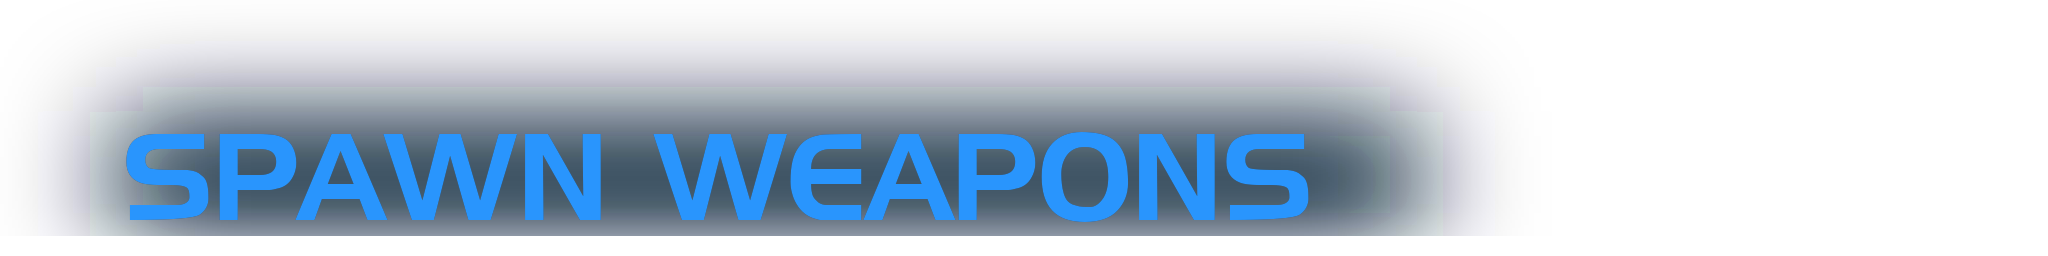
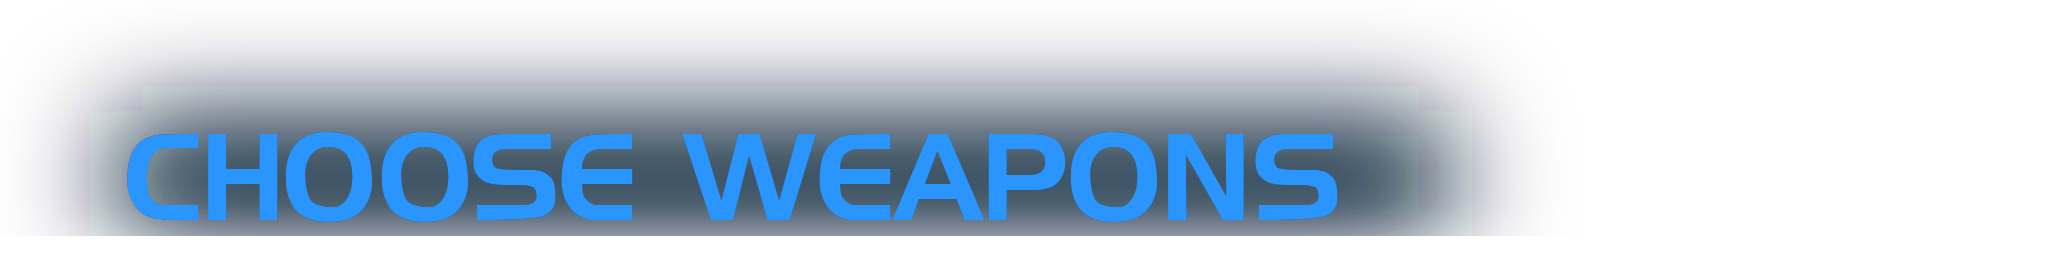
✨ feat(menus): show WEAPON SET only while MAP WEAPONS is on, and title the weapons screen CHOOSE WEAPONS — `gametype_option_help` in `menu_functions.c` hides `op_weapon_set` when `map_weapons_spinner` is NO, and the `weapons_edit` header matches the row that opens it
Claude-Session: https://claude.ai/code/session_01WKuTmEXq6fvD8QHehsa741

Changed region(s): [[0.0625, 0.4375, 0.75, 0.9062]]

diff --git a/port/linux/game/menu_functions.c b/port/linux/game/menu_functions.c
@@ -7140,6 +7140,10 @@ static void gametype_option_help(struct widget_instance *list)
 
 		visible_set(named(list, "op_choose_weapons", 0), custom);
 	}
+	/* (WEAPON SET only with the map's weapons on: it remaps the weapons the map places) */
+	if (named(list, "map_weapons_spinner", 0) && named(list, "op_weapon_set", 0))
+		visible_set(named(list, "op_weapon_set", 0),
+			named(list, "map_weapons_spinner", 0)->parameters.list.selected_index == 0);
 	/* (the server browser's filters, hidden: their helps are fewer than
 	their values) */
 	if (!description || !list->focused_child || !strncmp(list->name, "filters", 7))

diff --git a/tools/port_settings.py b/tools/port_settings.py
@@ -899,7 +899,7 @@ TITLES = {
     f"{MT}/game_options_edit/header_game_options": "GAME",
     f"{MT}/respawn_options_edit/header_respawn_options": "RESPAWN OPTIONS",
     f"{MT}/teams_hud_edit/header_teams_hud": "TEAMS & HUD",
-    f"{MT}/weapons_edit/header_weapons": "SPAWN WEAPONS",
+    f"{MT}/weapons_edit/header_weapons": "CHOOSE WEAPONS",
     f"{MT}/coop/header_player_2": "PLAYER 2 PROFILE",
     f"{MT}/lobby/header_add_player": "ADD PLAYER",
 }
